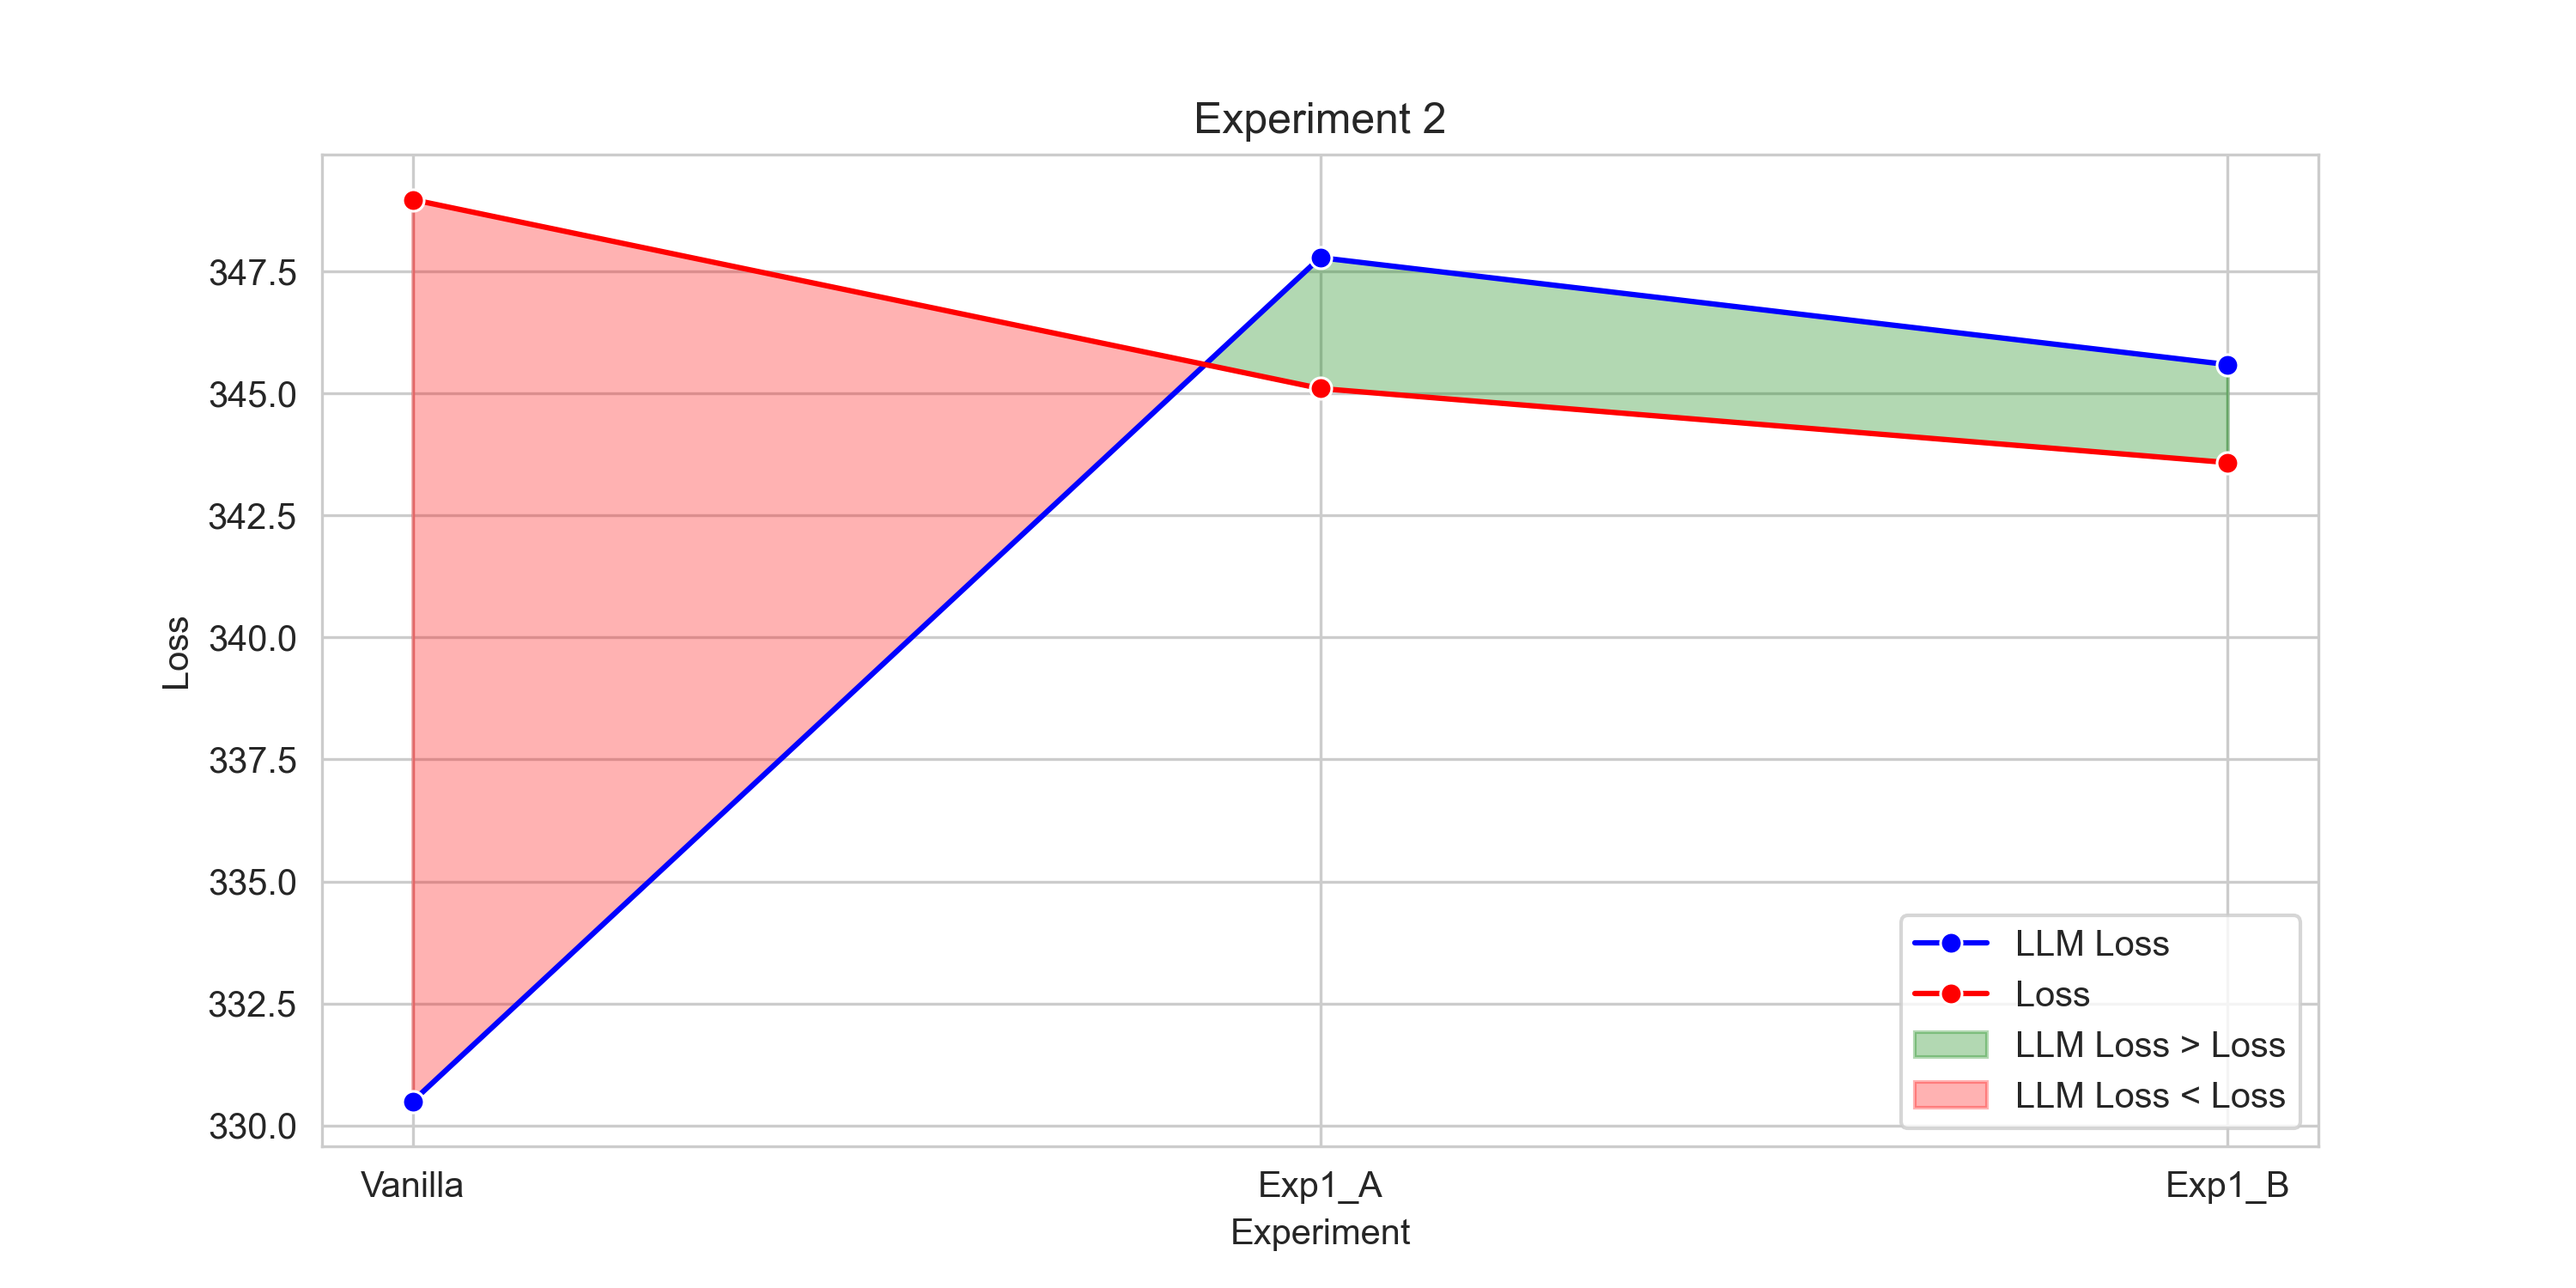
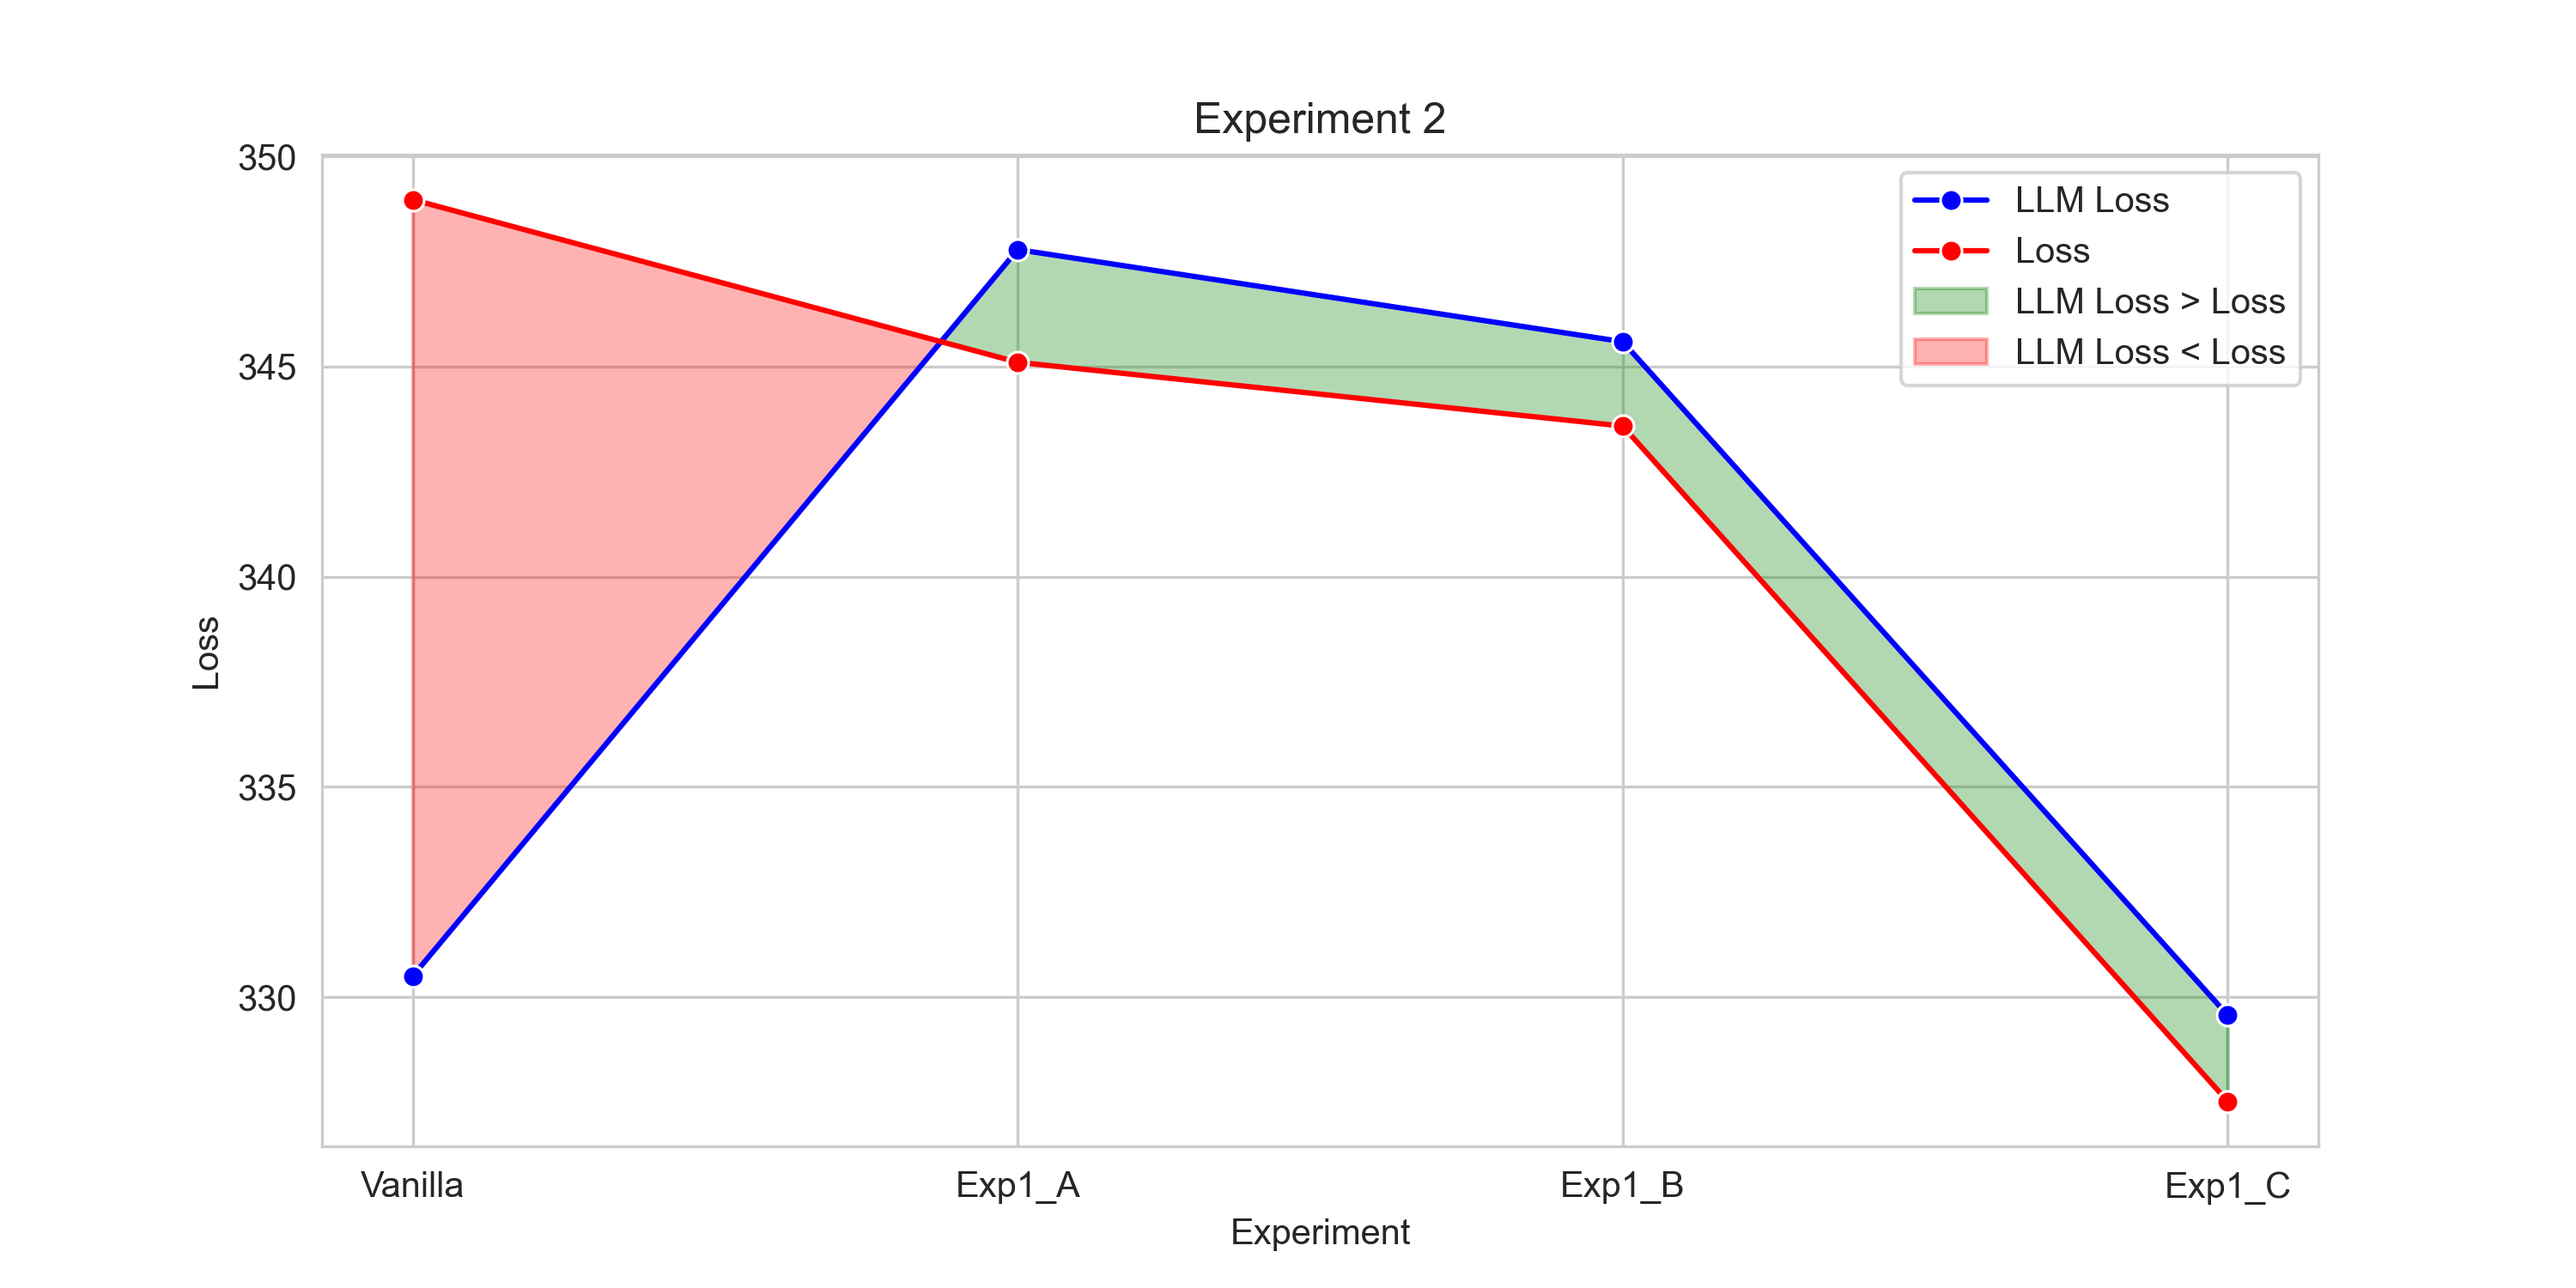
Update exp2 eval

diff --git a/src/exp2Eval.py b/src/exp2Eval.py
@@ -5,8 +5,8 @@ import matplotlib.pyplot as plt
 
 #-----------------
 
-experiments = {'Vanilla':'p2d_loss.json', 'Exp1_A':'p2d_loss.json', 'Exp1_B':'p2d_loss.json'}#, 'Exp1_C':'p2d_loss.json'}
-experiments_constantNames = {'Vanilla':'p2d_loss.json', 'Exp1_A':'p2d_loss_constantNames.json', 'Exp1_B':'p2d_loss_constantNames.json'}#, 'Exp1_C':'p2d_loss_constantNames.json'}
+experiments = {'Vanilla':'p2d_loss.json', 'Exp1_A':'p2d_loss.json', 'Exp1_B':'p2d_loss.json', 'Exp1_C':'p2d_loss.json'}
+experiments_constantNames = {'Vanilla':'p2d_loss.json', 'Exp1_A':'p2d_loss_constantNames.json', 'Exp1_B':'p2d_loss_constantNames.json', 'Exp1_C':'p2d_loss_constantNames.json'}
 
 #-----------------
 
@@ -29,7 +29,7 @@ def graphFunc(df, title='Experiment 2', save='loss.png'):
                     interpolate=True, color='red', alpha=0.3, label='LLM Loss < Loss')
 
     # Add titles and labels
-    plt.title('Experiment 2')
+    plt.title(title)
     plt.xlabel('Experiment')
     plt.ylabel('Loss')
     plt.legend()
